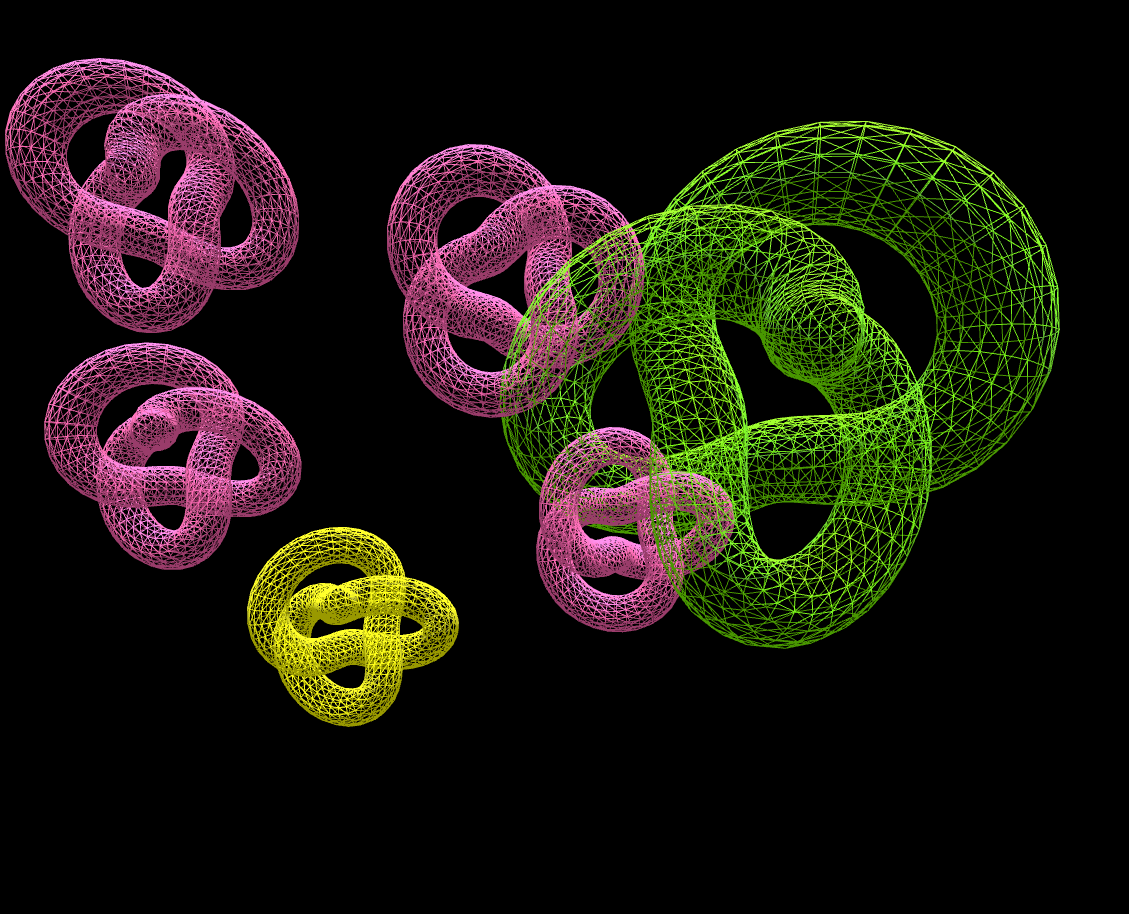
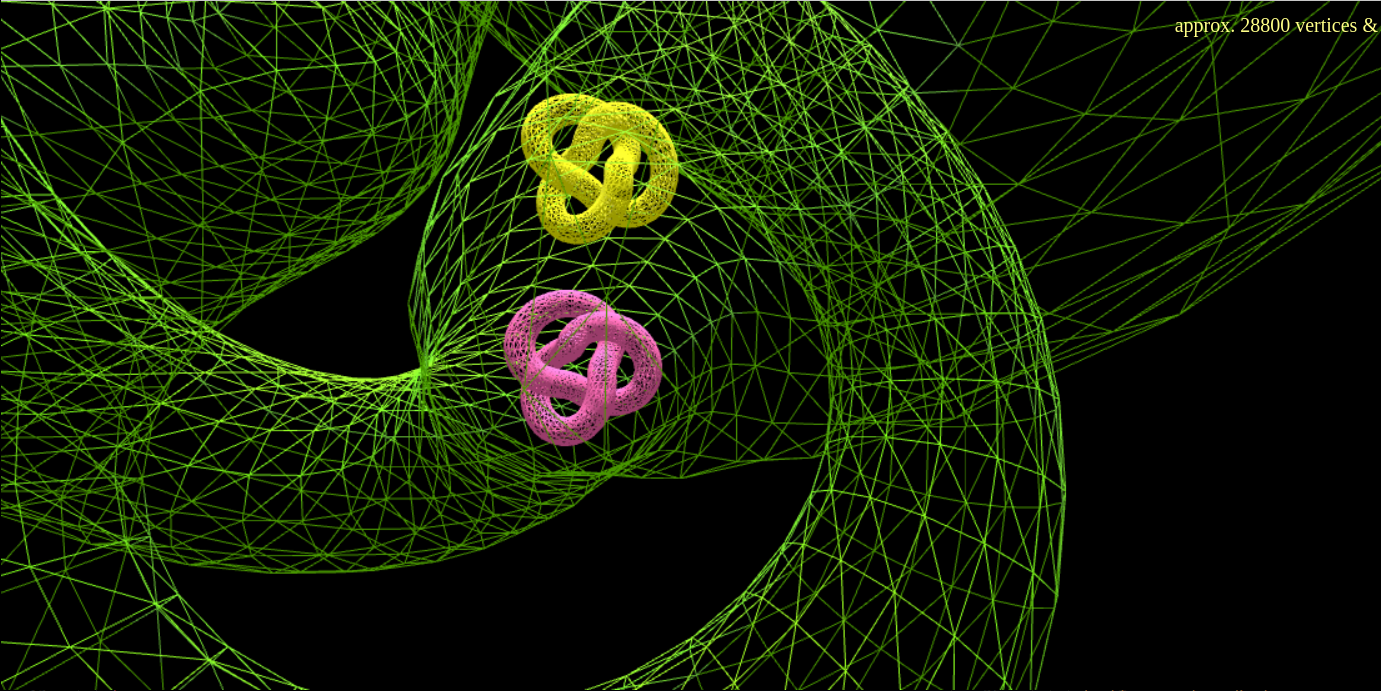
feat: added vertex count to wireframe

diff --git a/03/index.html b/03/index.html
@@ -10,6 +10,25 @@
       height: 100%;
       overflow: hidden !important;
     }
+
+    #vertex-edge-count {
+      position: fixed;
+      top: 10px;
+      right: 10px;
+      z-index: 3;
+      color: #ffff88;
+      visibility: hidden;
+      font-size: 1.6em user-select: none;
+      /* Based on this stackoverflow post https://stackoverflow.com/questions/6900124/how-to-make-certain-text-not-selectable-with-css */
+      -webkit-user-select: none;
+      /* Safari */
+      -moz-user-select: none;
+      /* Firefox */
+      -ms-user-select: none;
+      /* IE10+/Edge */
+      user-select: none;
+      /* Standard */
+    }
   </style>
 
   <script async src="https://unpkg.com/es-module-shims@1.6.3/dist/es-module-shims.js"></script>
@@ -23,6 +42,8 @@
     }
     </script>
 
+  <span id="vertex-edge-count">0 vertices & edges</span>
+
   <script type="module">
 
     import * as THREE from 'three';
@@ -31,6 +52,7 @@
     const HOT_PINK = 0xff69b4;
     const GRASS_GREEN = 0x7cfc00;
     const YELLOW = 0xffff00;
+    const vertexEdgeCountElement = document.getElementById("vertex-edge-count");
 
     var renderer, controls, scene, camera;
 
@@ -52,6 +74,17 @@
       renderer = new THREE.WebGLRenderer({antialias: true});
       renderer.setSize(window.innerWidth, window.innerHeight);
       document.body.appendChild(renderer.domElement);
+
+      const updateVertextCountUI = () => {
+        if (isWireframeMode) {
+          setTimeout(() => {
+          vertexEdgeCountElement.innerText = `approx. ${renderer.info.render.lines} vertices & edges`;
+          }, 100); // the counter takes a few ms to update
+          vertexEdgeCountElement.style.visibility = "visible";
+        } else {
+          vertexEdgeCountElement.style.visibility = "hidden";
+        }
+      }
 
       function addMesh(mesh) {
         scene.add(mesh);
@@ -91,19 +124,21 @@
         return intersects[0]?.point;
       }
 
-      window.onkeydown = function (e) {
+      window.onkeydown = (e) => {
         if (e.key.toLowerCase() === "w") {isWireframeMode = !isWireframeMode};
         allMeshes.forEach(mesh => {
           if (mesh.material) {
             mesh.material.wireframe = isWireframeMode;
           }
         });
+        updateVertextCountUI();
       }
 
       renderer.domElement.onmousedown = function (e) {
         mouseIsDown = true;
         const clickCoords = castMouseClick(e);
 
+        updateVertextCountUI();
         if (e.shiftKey) {
           handleShiftClick(clickCoords);
         } else {
@@ -188,6 +223,7 @@
       renderer.render(scene, camera);
 
     };
+
   </script>
 </head>
 
